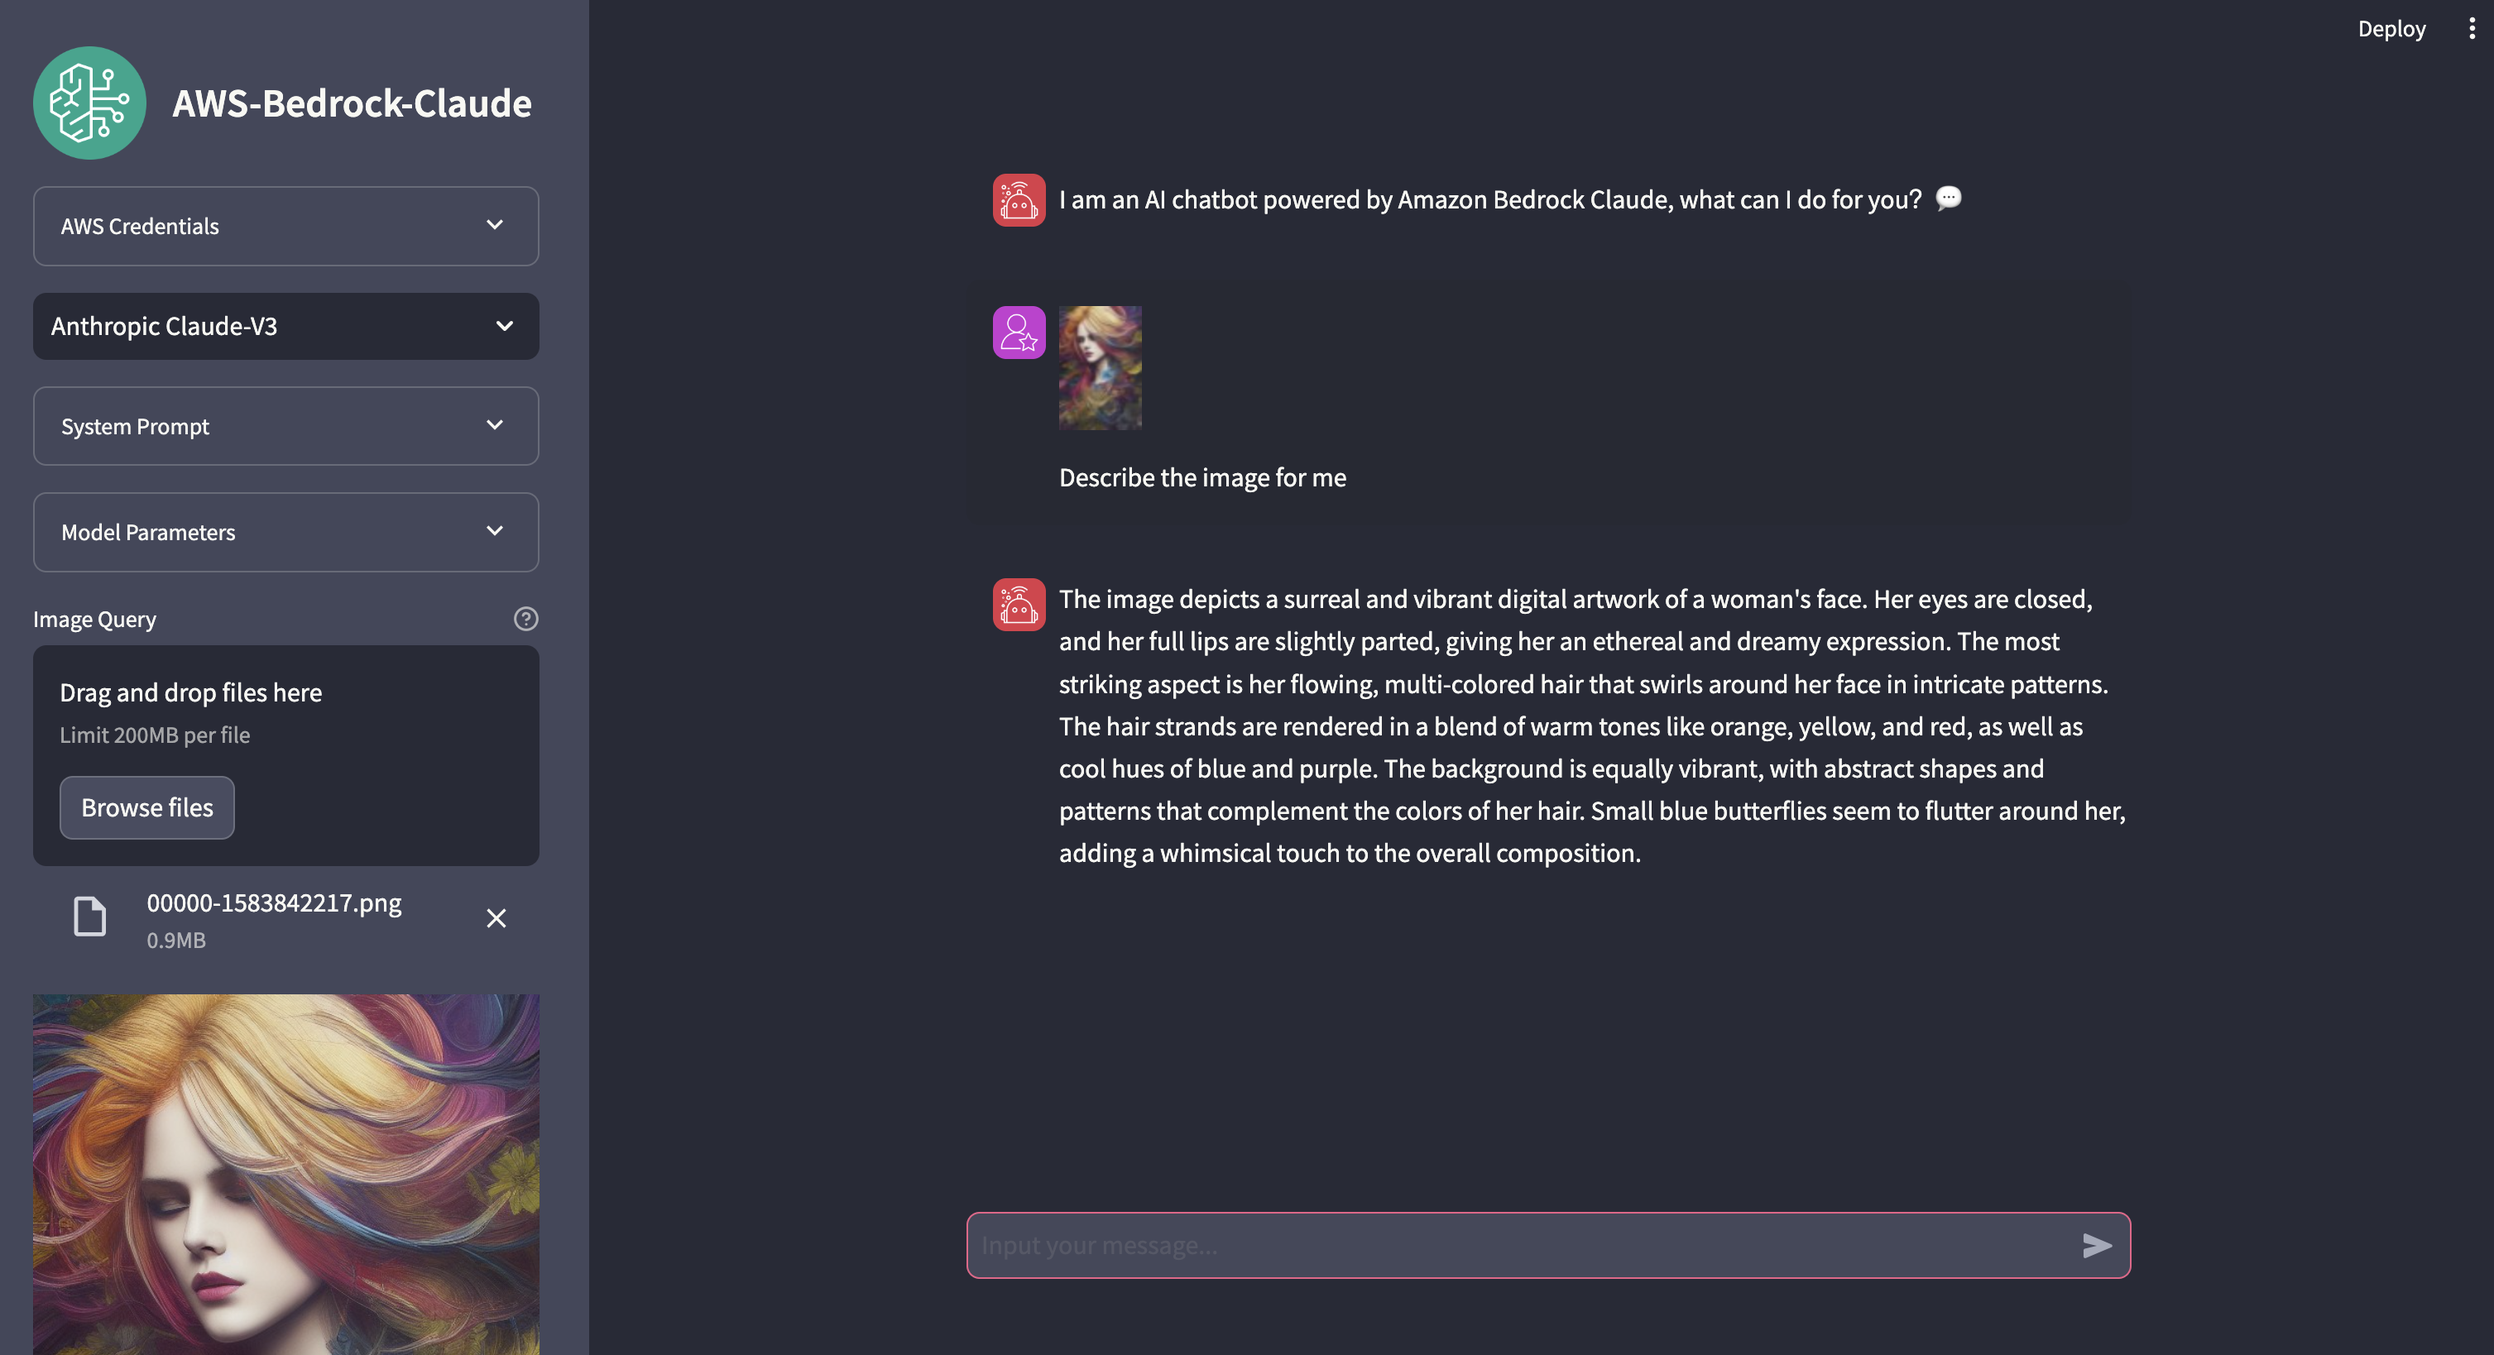
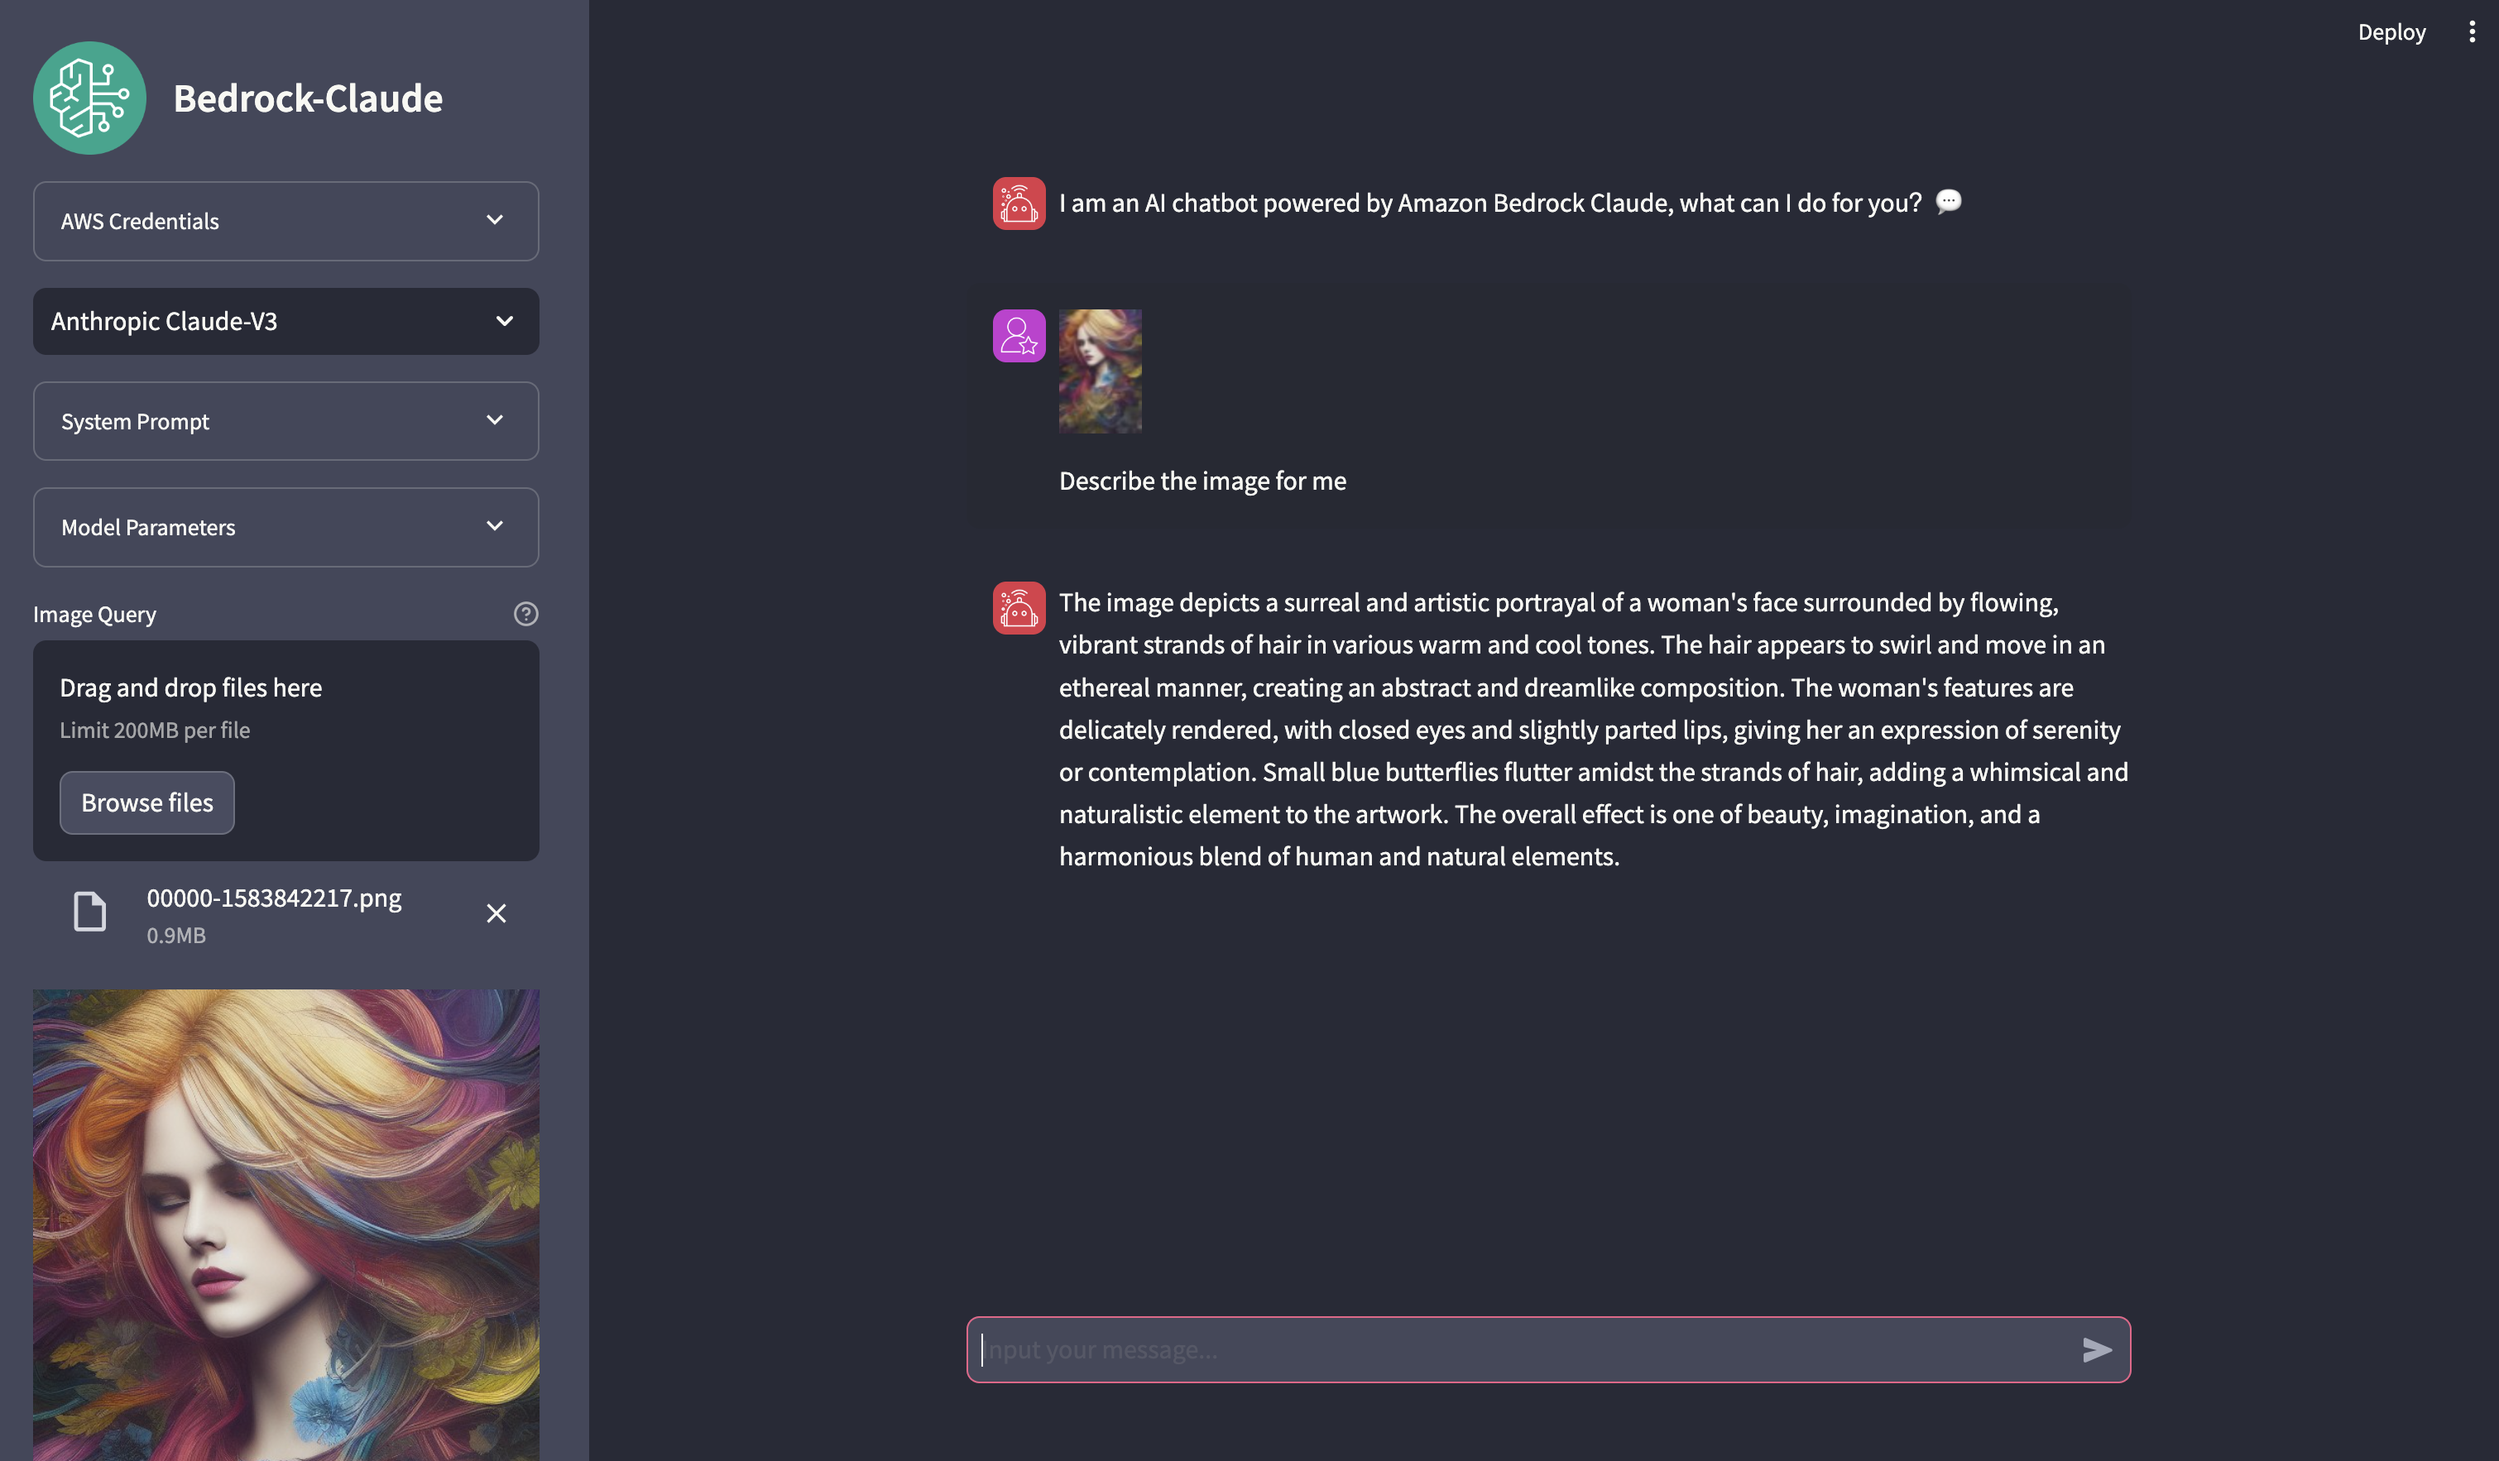
update

diff --git a/bedrock_streamlit.py b/bedrock_streamlit.py
@@ -80,14 +80,14 @@ def get_bedrock_runtime_client(aws_access_key=None, aws_secret_key=None, aws_reg
 
 def main():
     # App title
-    st.set_page_config(page_title="Bedrock-Claude 💬")
+    st.set_page_config(page_title="Bedrock-Claude 💬", page_icon='./utils/logo.png')
 
     with st.sidebar:
         col1, col2 = st.columns([1,3])
         with col1:
             st.image('./utils/logo.png')
         with col2:
-            st.title("AWS-Bedrock-Claude")
+            st.title("Bedrock-Claude")
 
         with st.expander('AWS Credentials', expanded=False):
             aws_access_key = st.text_input('AWS Access Key', "", type="password")
